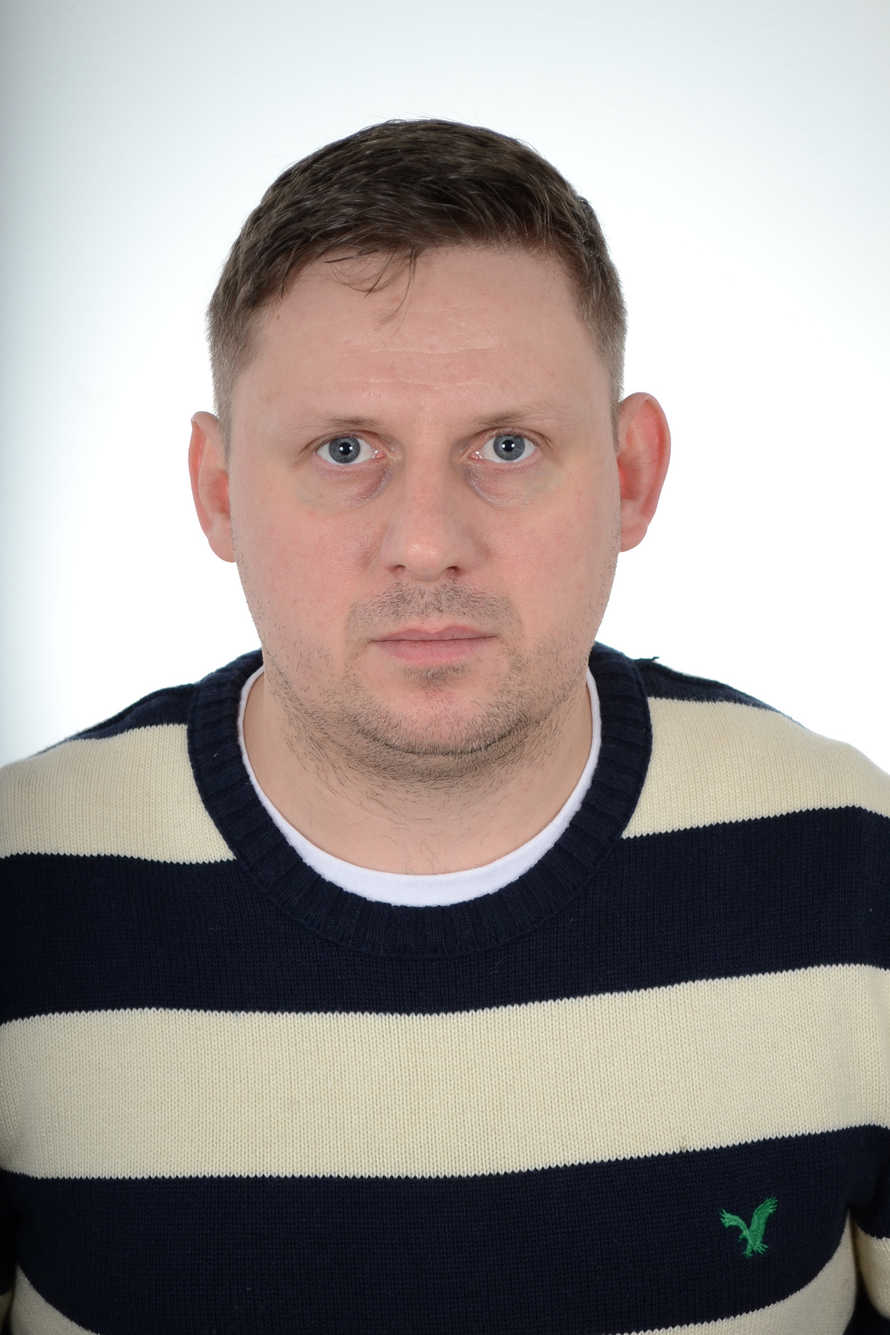
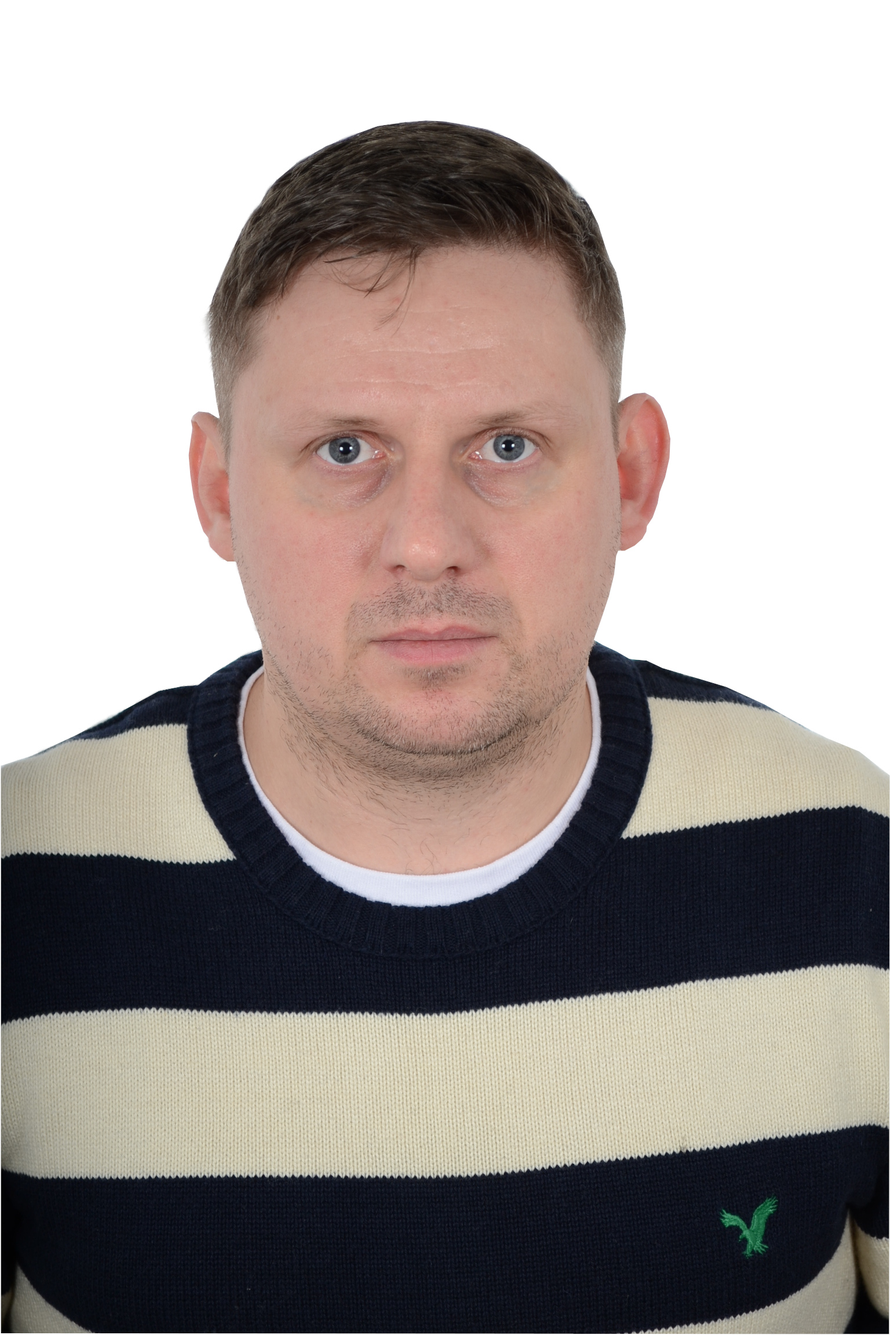
Added grid to .about .diary, some mobile responsiveness

diff --git a/index.html b/index.html
@@ -13,7 +13,7 @@
 <body>
 	<!--nawigacja gora-->
 	<header class="site-header">
-		<nav class="navigation">	
+		<nav class="navigation">
 			<ul class="navigation__list">
 				<li class="navigation__item"><a class="navigation__link" href="index.html"> Strona główna</a></li>
 				<li class="navigation__item"><a class="navigation__link" href="dzien1.html"> Dzień 1 </a></li>
@@ -42,80 +42,87 @@
 		<!--Section about-->
 		<section class="about">
 			<h2 class="about__header">O sobie (About me)</h2>
-			<img class="about__picture" src="pic/Zdjecie_front1.JPG" alt="zdjecie autora">
-			<p class="about__paragraph"><strong>Początkujacy Frontend Developer</strong>, magister ,
-				<strong>były student</strong>  "Informatyki-Systemy i sieci komputerowe" , "Marketingu i zarządzania-
-				Komunikacja w Biznesie" który w
-				<em>pogoni za szybką kasą</em> wylądował i pracował na budowach w New Jersey(USA) i Bergen(NO).</p>
-			<p class="about_paragraph  about__paragraph--mini about__paragraph--js"> Modyfikator JS </p>
-			<a class="about__link" href="#stopka"> Przejdź do stopka </a>
+			<div class="about__grid">
+				<img class="about__picture" src="pic/Zdjecie_front.PNG" alt="zdjecie autora">
+				<p class="about__paragraph"><strong>Początkujacy Frontend Developer</strong>, magister ,
+					<strong>były student</strong> "Informatyki-Systemy i sieci komputerowe" , "Marketingu i zarządzania-
+					Komunikacja w Biznesie" który w
+					<em>pogoni za szybką kasą</em> wylądował i pracował na budowach w New Jersey(USA) i Bergen(NO).</p>
+			</div>	
+				<p class="about_paragraph  about__paragraph--mini about__paragraph--js"> Modyfikator JS </p>
+				<a class="about__link" href="#stopka"> Przejdź do stopka </a>
 		</section>
+		
 		<!--Section diary-->
 		<section class="diary">
 			<h2 class="diary__header">Pamiętniczek</h2>
+			<div class="diary__grid">
+				<section class="day">
+					<h3 class="day__title">Dzień 1</h3>
+					<p class="day__paragraph">Pierwszy dzień drugiego tygodnia, jest mail ze zaczynamy. Aktualnie macham
+						szpachelką
+						:)<br>
+						<a class="day__link" href="dzien1.html"> Przejdź do dnia 1 </a>
+					</p>
+				</section>
 
-			<section class="day">
-				<h3 class="day__title">Dzień 1</h3>
-				<p class="day__paragraph">Pierwszy dzień drugiego tygodnia, jest mail ze zaczynamy. Aktualnie macham
-					szpachelką
-					:)<br>
-					<a class="day__link" href="dzien1.html"> Przejdź do dnia 1 </a>
-				</p>
-			</section>
+				<section class="day">
+					<h3 class="day__title">Dzień 2</h3>
+					<p class="day__paragraph">Obejrzałem wszystkie filmy z kursu drugiego tygodnia. W pracy macham
+						szpachelką
+						i
+						wałkiem ;)<br>
+						<a class="day__link" href="dzien2.html"> Przejdź do dnia 2 </a>
+					</p>
+				</section>
 
-			<section class="day">
-				<h3 class="day__title">Dzień 2</h3>
-				<p class="day__paragraph">Obejrzałem wszystkie filmy z kursu drugiego tygodnia. W pracy macham szpachelką
-					i
-					wałkiem ;)<br>
-					<a class="day__link" href="dzien2.html"> Przejdź do dnia 2 </a>
-				</p>
-			</section>
-			
-			<section class="day">
-				<h3 class="day__title">Dzień 3</h3>
-				<p class="day__paragraph">Machając szpachelką i wałkiem obiecuje sobie ze jutro obejrze rano ponownie
-					filmy z kursu i bede pisał kod.<br>
-					<a class="day__link" href="dzien3.html"> Przejdź do dnia 3 </a>
-				</p>
-			</section>
-			
-			<section class="day">
-				<h3 class="day__title">Dzień 4</h3>
-				<p class="day__paragraph">Kurs obejżany, zaczynam kodować.... tel... kupa nerwów. Ufff juz dobrze zaczynam
-					pisac
-					wszystko od
-					początku. BTW mam dziś wolne, swieto w Norwegii.<br>
-					<a class="day__link" href="dzien4.html"> Przejdź do dnia 4 </a>
-				</p>
-			</section>
-			
-			<section class="day">
-				<h3 class="day__title">Dzień 5</h3>
-				<p class="day__paragraph">A to dopiero jutro :)<br>
-					<a class="day__link" href="dzien5.html"> Przejdź do dnia 5 </a>
-				</p>
-			</section>
-			
-			<section class="day">
-				<h3 class="day__title">Dzień 6</h3>
-				<p class="day__paragraph">Dzisiaj bawiłem sie w robienie fakenewsow. Fajna zabawa :) Zagłebilem sie w
-					rozwiazywanie problemu z
-					kursu, po ciezkich bojach udalo sie. <br>
-					<a class="day__link" href="dzien6.html"> Przejdź do dnia 6 </a>
-				</p>
-			</section>
-			
+				<section class="day">
+					<h3 class="day__title">Dzień 3</h3>
+					<p class="day__paragraph">Machając szpachelką i wałkiem obiecuje sobie ze jutro obejrze rano
+						ponownie
+						filmy z kursu i bede pisał kod.<br>
+						<a class="day__link" href="dzien3.html"> Przejdź do dnia 3 </a>
+					</p>
+				</section>
+
+				<section class="day">
+					<h3 class="day__title">Dzień 4</h3>
+					<p class="day__paragraph">Kurs obejżany, zaczynam kodować.... tel... kupa nerwów. Ufff juz dobrze
+						zaczynam
+						pisac
+						wszystko od
+						początku. BTW mam dziś wolne, swieto w Norwegii.<br>
+						<a class="day__link" href="dzien4.html"> Przejdź do dnia 4 </a>
+					</p>
+				</section>
+
+				<section class="day">
+					<h3 class="day__title">Dzień 5</h3>
+					<p class="day__paragraph">A to dopiero jutro :)<br>
+						<a class="day__link" href="dzien5.html"> Przejdź do dnia 5 </a>
+					</p>
+				</section>
+
+				<section class="day">
+					<h3 class="day__title">Dzień 6</h3>
+					<p class="day__paragraph">Dzisiaj bawiłem sie w robienie fakenewsow. Fajna zabawa :) Zagłebilem sie
+						w
+						rozwiazywanie problemu z
+						kursu, po ciezkich bojach udalo sie. <br>
+						<a class="day__link" href="dzien6.html"> Przejdź do dnia 6 </a>
+					</p>
+				</section>
+			</div>
 		</section>
 	</main>
-	
+
 	<!--Stopka-->
 	<footer class="footer">
 		<h4 class="footer__header" id="stopka">To jest moja pierwsza strona www ktora powstała na podstawie kursu
-				#WTF- Maćka Korsana oraz #devstyle.pl</h4>
+			#WTF- Maćka Korsana oraz #devstyle.pl</h4>
 		<a class="footer__topmenu" href="#top"> Na górę </a>
 	</footer>
-	
+
 	<!--Skrypt JS-->
 	<script src="main.js"> </script>
 </body>

diff --git a/style.css b/style.css
@@ -12,36 +12,53 @@
     width: 100%;
     max-width: 200px;
     display: block;
-    margin: 5px 3px;
-    float: left;
+    margin: 0 auto;
+    border-radius: 15px;
 }
 
 .about__paragraph {
     font-size: 24px
 }
 
-.about__paragraph--mini{ 
+.about__paragraph--mini {
     color: #d33c49;
     text-align: center;
     font-size: 18px;
 }
 
-.about__paragraph--js{ 
+.about__paragraph--js {
     color: #5f758e;
     text-align: center;
     font-size: 18px;
 }
+
 .about__link {
     color: #2978a0;
     text-decoration: none;
 }
 
+.about__grid {
+    display: flex;
+    align-items: center;
+    /*justify-content: center;*/
+    display: grid;
+    grid-template-columns: 30% 1fr;
+    grid-column-gap: 8px;
+}
+
 body {
-    background: linear-gradient(90deg, rgba(252,250,250,1) 13%, rgba(218,229,232,1) 53%, rgba(200,211,213,1) 99%);
+    background: linear-gradient(90deg, rgba(252, 250, 250, 1) 13%, rgba(218, 229, 232, 1) 53%, rgba(200, 211, 213, 1) 99%);
 }
 
 .diary {
     clear: both;
+}
+
+.diary__grid {
+    display: grid;
+    grid-template-columns: 1fr 1fr;
+    grid-column-gap: 8px;
+    grid-row-gap: 8px;
 }
 
 .diary__header {
@@ -85,15 +102,16 @@ body {
     color: #2978a0;
     text-decoration: none;
 }
+
 .main {
     max-width: 1080px;
     width: 100%;
     margin: 32px auto;
-    padding-top: 20px;
+    padding-top: 40px;
 }
 
 .main__paragraph {
-    text-indent: 30px; 
+    text-indent: 30px;
 }
 
 .main__footer {
@@ -148,15 +166,15 @@ body {
 }
 
 .navigation__list {
-list-style: none;
-display: flex;
-flex-flow: row wrap;
-justify-content: center;
-justify-content: space-around;
-align-content: center;
-align-items: center;
-flex-grow: 1;
-padding-left: 0px;
+    list-style: none;
+    display: flex;
+    flex-flow: row wrap;
+    justify-content: center;
+    justify-content: space-around;
+    align-content: center;
+    align-items: center;
+    flex-grow: 1;
+    padding-left: 0px;
 }
 
 .navigation__link {
@@ -165,4 +183,16 @@ padding-left: 0px;
     text-transform: uppercase;
     font-weight: 400;
     text-shadow: 1px 1px 0 rgba(0, 0, 0, .5);
+}
+
+@media (max-width: 550px) {
+    .diary__grid {
+        grid-template-columns: 1fr;
+    }
+    .about__grid {
+        grid-template-columns: 1fr;
+    }
+    body {
+        background: #dae5e8;
+    }
 }
